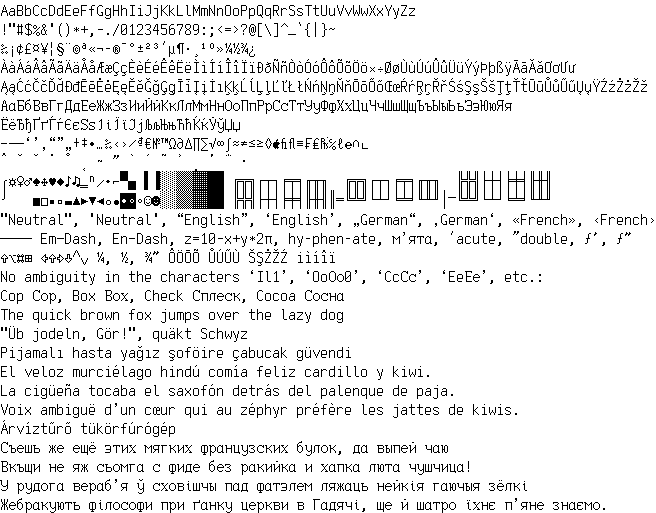
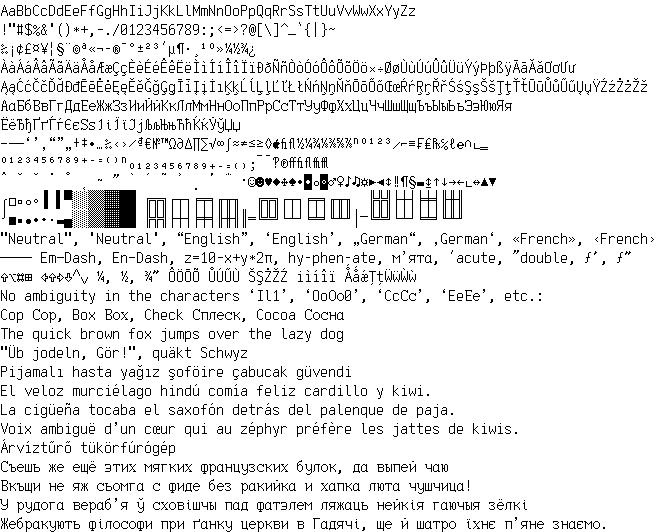
New codepoints

diff --git a/export.js b/export.js
@@ -52,19 +52,28 @@ function getAsciiImage() {
 function getTableText() {
     let latestGroup = '';
     let latestPos = 0;
-    let res = ['Code ' + [...Array(16).keys()].map(n => toHex(n, 1)).join(' ') + ' '];
+    const colHeader = 'Code ' + [...Array(16).keys()].map(n => toHex(n, 1)).join(' ') + ' ';
+    const col1 = [colHeader];
+    const col2 = [colHeader];
     for (let char of chars) {
-        let group = toHex((char.code & 0xFFF0) >> 4, 3);
+        let group = toHex(char.code >> 4, 3);
+        const col = group < '100' ? col1 : col2;
         if (group != latestGroup) {
             latestGroup = group;
             latestPos = 0;
-            res.push(group + 'x');
+            col.push(group + 'x');
         }
         const pos = char.code & 0xF;
-        res[res.length - 1] += ' '.repeat(2 * (pos - latestPos));
+        col[col.length - 1] += ' '.repeat(2 * (pos - latestPos));
         latestPos = pos + 1;
         const ch = String.fromCharCode(char.code);
-        res[res.length - 1] += ' ' + ch;
+        col[col.length - 1] += ' ' + ch;
+    }
+    const res = [];
+    for (let i = 0; i < Math.max(col1.length, col2.length); i++) {
+        const s1 = col1[i] || '';
+        const s2 = col2[i] || '';
+        res.push(s1 + ' '.repeat(40 - s1.length) + s2);
     }
     return res;
 }
@@ -89,6 +98,8 @@ function getImage(/** @type {string[]} */ textLines) {
                     img.blit(chImg, x * chWidth, y * chHeight + (isDiacritics && charY > 0 ? offset : 0));
                     if (!isDiacritics) {
                         offset = Math.max(0, chCapsHeight - charY - 1);
+                    } else {
+                        offset -= 4; // second diacritics
                     }
                 }
                 isDiacritics = true;
@@ -105,17 +116,18 @@ writeFileSync('./Example.png', getImage([
     '‰¡¢£¤¥¦§¨©ª«¬\u00AD®¯°±²³´µ¶·¸¹º»¼½¾¿',
     'ÀàÁáÂâÃãÄäÅåÆæÇçÈèÉéÊêËëÌìÍíÎîÏïÐðÑñÒòÓóÔôÕõÖö×÷ØøÙùÚúÛûÜüÝýÞþßÿĀāĂăƠơƯư',
     'ĄąĆćČčĎďĐđĒēĖėĘęĚěĞğĢģĪīĮįİıĶķĹĺĻļĽľŁłŃńŅņŇňŌōŐőŒœŔŕŖŗŘřŚśŞşŠšŢţŤťŪūŮůŰűŲųŸŹźŻżŽž',
-    // TODO: Windows Glyph List 4 (WGL4)
+    // TODO: Windows Glyph List 4 (WGL4), World Glyph Set (W1G)
     //'ΑαΒβΓγΔδΕεΖζΗηΘθΙιΚκΛλΜμΝνΞξΟοΠπΡρΣσςΤτΥυΦφΧχΨψΩω ΆάΈέΉήΊίΪϊΐΌόΫϋΎύΰΏώ',
     'АаБбВвГгДдЕеЖжЗзИиЙйКкЛлМмНнОоПпРрСсТтУуФфХхЦцЧчШшЩщЪъЫыЬьЭэЮюЯя',
-    'ЁёЂђҐґЃѓЄєЅѕІіЇїЈјЉљЊњЋћЌќЎўЏџӘәҖҗҢңӨөҮүҺһ',
-    '–—―‘’‚“”„†‡•…‰‹›⁄₫€№™Ω∂∆∏∑√∞∫≈≠≤≥◊\uF8FFﬁﬂ≡₣₤₧℅ℓ℮∩∟',
-    'ˆ ˇ ˘ ˙ ˚ ˛ ˜ ˝ ̀ ́ ̃ ̉ ̣ ΄ ΅ ·',
-    '⌠☼♀♂♠♣♥♦♪♫‗ⁿ∕∙⌐▀▄ ▌▐░░▒▒▓▓██ ╔╦╗┌┬┐╒╤╕╓╥╖  ╔╦╗┌┬┐╒╤╕╓╥╖  ╠╬╣├┼┤╞╪╡╟╫╢',
-    '⌡   ■□▪▫▬▲►▼◄○●◘◙◦☺☻░░▒▒▓▓██ ╠╬╣├┼┤╞╪╡╟╫╢║═╚╩╝└┴┘╘╧╛╙╨╜│─╚╩╝└┴┘╘╧╛╙╨╜',
+    'ЁёЂђҐґЃѓЄєЅѕІіЇїЈјЉљЊњЋћЌќЎўЏџӘәҖҗҢңӨөҮүҺһѢѣѲѳѴѵ',
+    '–—―‘’‚“”„†‡•…‰‹›⁄₫€№™Ω∂∆∏∑√∞∫≈≠≤≥◊\uF8FFﬁﬂ½¼¾⅛⅜⅝⅞ⁿº¹²³∕⌐≡₣₤₧℅ℓ℮∩∟‗',
+    '⁰¹²³⁴⁵⁶⁷⁸⁹⁺⁻⁼⁽⁾ⁿ₀₁₂₃₄₅₆₇₈₉₊₋₌₍₎;‾ˉ‽℗ﬀﬁﬂﬃﬄ',
+    'ˆ ˇ ˘ ˙ ˚ ˛ ˜ ˝ ̀ ́ ̃ ̉ ̣ ΄ ΅ ·☺☻♥♦♣♠•◘○◙♂♀♪♫☼►◄↕‼¶§▬↨↑↓→←∟↔▲▼',
+    '⌠□▫○◦▐ ▌▀░░▒▒▓▓██ ╔╦╗┌┬┐╒╤╕╓╥╖  ╔╦╗┌┬┐╒╤╕╓╥╖  ╠╬╣├┼┤╞╪╡╟╫╢',
+    '⌡■▪●•∙·▬▄░░▒▒▓▓██ ╠╬╣├┼┤╞╪╡╟╫╢║═╚╩╝└┴┘╘╧╛╙╨╜│─╚╩╝└┴┘╘╧╛╙╨╜',
     '"Neutral", \'Neutral\', “English”, ‘English’, „German“, ‚German‘, «French», ‹French›',
     '―――― Em—Dash, En–Dash, z=10-x+y*2π, hy‐phen‐ate, мʼята, ´acute, ˝double, ƒ′, ƒ″',
-    '⇧⌥⌘⊞ ⇦⇧⇨⇩⌃⌄ ¼, ½, ¾″ ÔÖŌÕ ŮÚŰÙ ŠŞŻŽŹ iìíîï',
+    '⇧⌥⌘⊞ ⇦⇧⇨⇩⌃⌄ ¼, ½, ¾″ ÔÖŌÕ ŮÚŰÙ ŠŞŻŽŹ iìíîï ǺǻǽȚțẄẅẀẁ',
     'No ambiguity in the characters ‘Il1’, ‘OoОо0’, ‘CcСс’, ‘EeЕе’, etc.:',
     'Cop Сор, Box Вох, Check Сплеск, Cocoa Сосна',
     'The quick brown fox jumps over the lazy dog',
